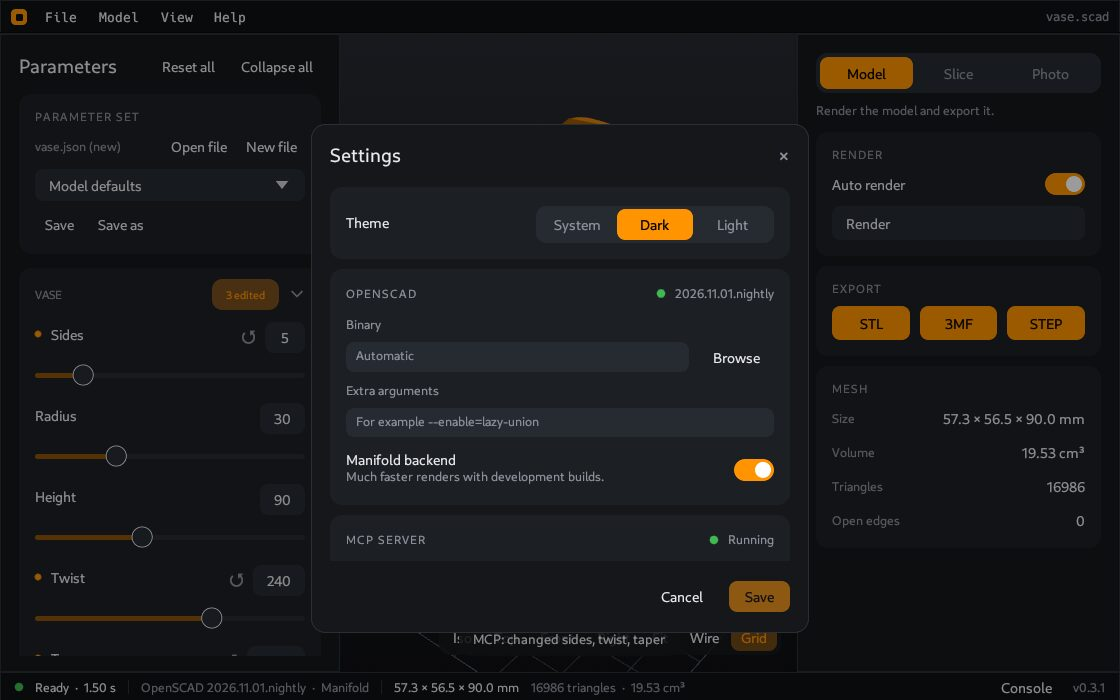
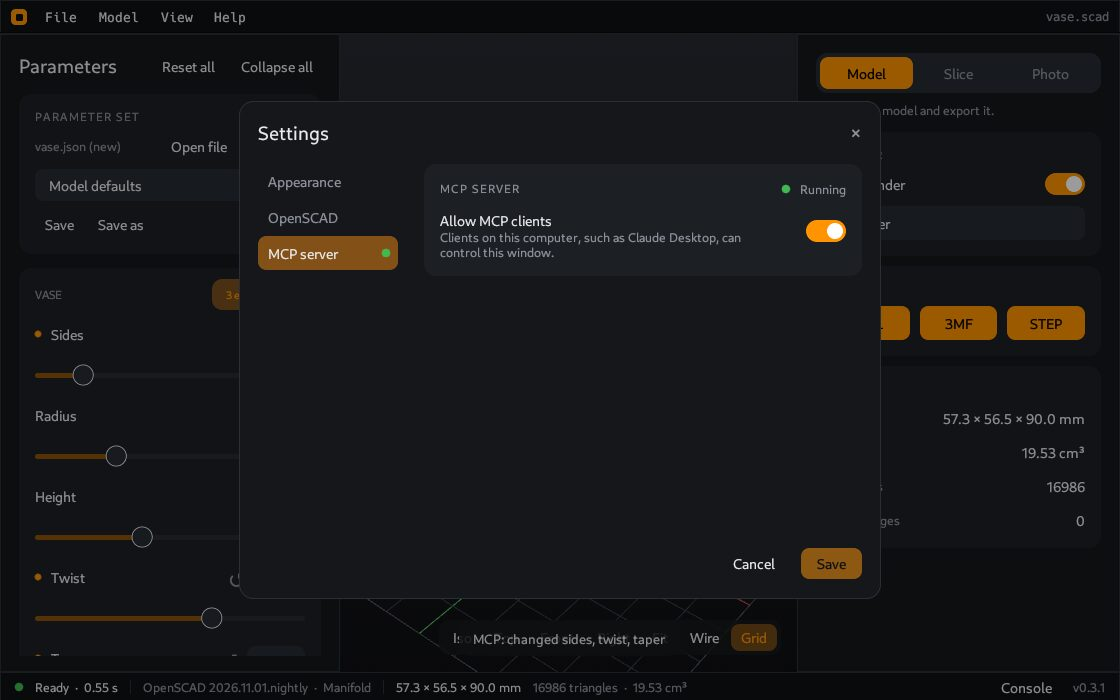
Settings: use side navigation with one page per topic
The Settings window was one long column. It now has a fixed size and
pages for Appearance, OpenSCAD, MCP server and Privacy. Dots in the
navigation show a missing binary and a running server. A note shows
unsaved changes.

diff --git a/src/app.rs b/src/app.rs
@@ -82,6 +82,15 @@ struct PhotoKey {
     samples: u32,
 }
 
+/// Pages of the Settings window.
+#[derive(Clone, Copy, PartialEq)]
+enum SettingsPage {
+    Appearance,
+    OpenScad,
+    Mcp,
+    Privacy,
+}
+
 /// Photo render settings shown in the Photo panel.
 struct PhotoSettings {
     color: [u8; 3],
@@ -218,6 +227,7 @@ pub struct App {
     collapsed: std::collections::HashSet<String>,
     cfg: openscad::Config,
     cfg_edit: Option<openscad::Config>,
+    settings_page: SettingsPage,
     engine: String,
     renderer: Option<Arc<Mutex<Renderer>>>,
     toast: Option<(String, Instant)>,
@@ -321,6 +331,7 @@ impl App {
                 .then_some((false, false)),
             cfg,
             cfg_edit: None,
+            settings_page: SettingsPage::Appearance,
             engine: String::new(),
             renderer,
             toast: None,
@@ -2259,11 +2270,33 @@ impl App {
             .corner_radius(14)
             .inner_margin(egui::Margin::same(18))
             .stroke(egui::Stroke::new(1.0_f32, ui::c().line));
-        let max_height = (ctx.screen_rect().height() - 170.0).max(160.0);
+        // A fixed size keeps the buttons in place when the page changes.
+        let screen = ctx.screen_rect().size();
+        let width = (screen.x - 80.0).clamp(420.0, 604.0);
+        let height = (screen.y - 170.0).clamp(160.0, 360.0);
+        let probe = settings_probe(ctx, &edit);
+        let missing = probe.as_ref().is_some_and(|p| p.version == "not found");
+        let mut page = self.settings_page;
+        let mut pages = vec![
+            (SettingsPage::Appearance, "Appearance", None),
+            (
+                SettingsPage::OpenScad,
+                "OpenSCAD",
+                missing.then_some(ui::c().danger),
+            ),
+            (
+                SettingsPage::Mcp,
+                "MCP server",
+                running.then_some(ui::GOOD),
+            ),
+        ];
+        if crate::telemetry::available() {
+            pages.push((SettingsPage::Privacy, "Privacy", None));
+        }
         egui::Modal::new(egui::Id::new("settings"))
             .frame(frame)
             .show(ctx, |ui| {
-                ui.set_width(460.0);
+                ui.set_width(width);
                 ui.horizontal(|ui| {
                     ui.heading("Settings");
                     ui.with_layout(egui::Layout::right_to_left(egui::Align::Center), |ui| {
@@ -2271,57 +2304,42 @@ impl App {
                     });
                 });
                 ui.add_space(10.0);
-                egui::ScrollArea::vertical()
-                    .max_height(max_height)
-                    .auto_shrink([false, true])
-                    .show(ui, |ui| {
-                        ui.spacing_mut().item_spacing.y = 10.0;
-                        ui::card(ui, |ui| {
-                            let row = Vec2::new(ui.available_width(), 36.0);
-                            let rtl = egui::Layout::right_to_left(egui::Align::Center);
-                            ui.allocate_ui_with_layout(row, rtl, |ui| {
-                                let mut theme: &str = match edit.theme.as_str() {
-                                    "dark" => "dark",
-                                    "light" => "light",
-                                    _ => "system",
-                                };
-                                // Right to left: the last item comes first on screen.
-                                let options =
-                                    [("light", "Light"), ("dark", "Dark"), ("system", "System")];
-                                ui::segmented(ui, &mut theme, &options);
-                                edit.theme = theme.to_string();
-                                let ltr = egui::Layout::left_to_right(egui::Align::Center);
-                                ui.with_layout(ltr, |ui| ui.label("Theme"));
-                            });
-                        });
-                        ui::card(ui, |ui| openscad_settings(ui, &mut edit));
-                        ui::card(ui, |ui| {
-                            let (ok, text) = match (edit.mcp, running) {
-                                (true, true) => (true, "Running"),
-                                (false, false) => (false, "Off"),
-                                (true, false) => (false, "Starts when you save"),
-                                (false, true) => (true, "Stops when you save"),
-                            };
-                            let color = if ok { ui::GOOD } else { ui::c().dim };
-                            card_header(ui, "MCP server", color, text);
-                            ui.add_space(4.0);
-                            toggle_row(
-                                ui,
-                                "Allow MCP clients",
-                                "Clients on this computer, such as Claude Desktop, can control this window.",
-                                &mut edit.mcp,
-                            );
-                        });
-                        if crate::telemetry::available() {
-                            ui::card(ui, |ui| {
-                                ui::section(ui, "Privacy");
-                                ui.add_space(4.0);
-                                toggle_row(ui, "Usage analytics", ANALYTICS_NOTE, &mut edit.analytics);
-                                toggle_row(ui, "Error reports", ERRORS_NOTE, &mut edit.error_reports);
-                                ui.hyperlink_to("Privacy policy", crate::telemetry::PRIVACY_URL);
-                            });
+                let ltr = egui::Layout::left_to_right(egui::Align::Min);
+                ui.allocate_ui_with_layout(Vec2::new(width, height), ltr, |ui| {
+                    ui.set_min_height(height);
+                    let nav = Vec2::new(140.0, height);
+                    let down = egui::Layout::top_down(egui::Align::Min);
+                    ui.allocate_ui_with_layout(nav, down, |ui| {
+                        ui.set_width(nav.x);
+                        ui.spacing_mut().item_spacing.y = 2.0;
+                        for &(value, label, dot) in &pages {
+                            if ui::nav_item(ui, label, page == value, dot).clicked() {
+                                page = value;
+                            }
                         }
                     });
+                    ui.add_space(16.0);
+                    let body = Vec2::new(ui.available_width(), height);
+                    ui.allocate_ui_with_layout(body, down, |ui| {
+                        egui::ScrollArea::vertical()
+                            .id_salt("settings-page")
+                            .auto_shrink([false, false])
+                            .show(ui, |ui| match page {
+                                SettingsPage::Appearance => {
+                                    ui::card(ui, |ui| theme_row(ui, &mut edit));
+                                }
+                                SettingsPage::OpenScad => {
+                                    ui::card(ui, |ui| openscad_settings(ui, &mut edit, &probe));
+                                }
+                                SettingsPage::Mcp => {
+                                    ui::card(ui, |ui| mcp_settings(ui, &mut edit, running));
+                                }
+                                SettingsPage::Privacy => {
+                                    ui::card(ui, |ui| privacy_settings(ui, &mut edit));
+                                }
+                            });
+                    });
+                });
                 ui.add_space(12.0);
                 let row = Vec2::new(ui.available_width(), 34.0);
                 let rtl = egui::Layout::right_to_left(egui::Align::Center);
@@ -2332,8 +2350,13 @@ impl App {
                         .on_disabled_hover_text("No changes")
                         .clicked();
                     close |= ui.add(ui::ghost("Cancel", false)).clicked();
+                    if dirty {
+                        let ltr = egui::Layout::left_to_right(egui::Align::Center);
+                        ui.with_layout(ltr, |ui| ui.label(ui::dim("Unsaved changes").size(12.5)));
+                    }
                 });
             });
+        self.settings_page = page;
         if save {
             if let Err(e) = edit.save() {
                 self.toast = Some((format!("Cannot save settings: {e}"), Instant::now()));
@@ -2352,13 +2375,72 @@ impl App {
     }
 }
 
-/// The OpenSCAD card of the Settings window.
-fn openscad_settings(ui: &mut egui::Ui, edit: &mut openscad::Config) {
+/// Id of the OpenSCAD binary field.
+fn binary_id() -> egui::Id {
+    egui::Id::new("settings-binary")
+}
+
+/// Checks the OpenSCAD binary, except while its name is being typed.
+fn settings_probe(ctx: &egui::Context, edit: &openscad::Config) -> Option<openscad::Probe> {
     // A half typed name must not run as a program.
-    let binary_id = egui::Id::new("settings-binary");
-    let typing = ui.memory(|m| m.has_focus(binary_id));
-    let probe = (!typing).then(|| openscad::probe(&edit.binary()));
-    match &probe {
+    let typing = ctx.memory(|m| m.has_focus(binary_id()));
+    (!typing).then(|| openscad::probe(&edit.binary()))
+}
+
+/// The Appearance page of the Settings window.
+fn theme_row(ui: &mut egui::Ui, edit: &mut openscad::Config) {
+    let row = Vec2::new(ui.available_width(), 36.0);
+    let rtl = egui::Layout::right_to_left(egui::Align::Center);
+    ui.allocate_ui_with_layout(row, rtl, |ui| {
+        let mut theme: &str = match edit.theme.as_str() {
+            "dark" => "dark",
+            "light" => "light",
+            _ => "system",
+        };
+        // Right to left: the last item comes first on screen.
+        let options = [("light", "Light"), ("dark", "Dark"), ("system", "System")];
+        ui::segmented(ui, &mut theme, &options);
+        edit.theme = theme.to_string();
+        let ltr = egui::Layout::left_to_right(egui::Align::Center);
+        ui.with_layout(ltr, |ui| ui.label("Theme"));
+    });
+}
+
+/// The MCP server page of the Settings window.
+fn mcp_settings(ui: &mut egui::Ui, edit: &mut openscad::Config, running: bool) {
+    let (ok, text) = match (edit.mcp, running) {
+        (true, true) => (true, "Running"),
+        (false, false) => (false, "Off"),
+        (true, false) => (false, "Starts when you save"),
+        (false, true) => (true, "Stops when you save"),
+    };
+    let color = if ok { ui::GOOD } else { ui::c().dim };
+    card_header(ui, "MCP server", color, text);
+    ui.add_space(4.0);
+    toggle_row(
+        ui,
+        "Allow MCP clients",
+        "Clients on this computer, such as Claude Desktop, can control this window.",
+        &mut edit.mcp,
+    );
+}
+
+/// The Privacy page of the Settings window.
+fn privacy_settings(ui: &mut egui::Ui, edit: &mut openscad::Config) {
+    toggle_row(ui, "Usage analytics", ANALYTICS_NOTE, &mut edit.analytics);
+    ui.add_space(8.0);
+    toggle_row(ui, "Error reports", ERRORS_NOTE, &mut edit.error_reports);
+    ui.add_space(8.0);
+    ui.hyperlink_to("Privacy policy", crate::telemetry::PRIVACY_URL);
+}
+
+/// The OpenSCAD page of the Settings window.
+fn openscad_settings(
+    ui: &mut egui::Ui,
+    edit: &mut openscad::Config,
+    probe: &Option<openscad::Probe>,
+) {
+    match probe {
         None => card_header(
             ui,
             "OpenSCAD",
@@ -2386,7 +2468,7 @@ fn openscad_settings(ui: &mut egui::Ui, edit: &mut openscad::Config) {
         }
         ui.add(
             egui::TextEdit::singleline(&mut edit.binary)
-                .id(binary_id)
+                .id(binary_id())
                 .hint_text(ui::dim("Automatic"))
                 .desired_width(f32::INFINITY)
                 .margin(Vec2::new(10.0, 6.0)),

diff --git a/src/ui.rs b/src/ui.rs
@@ -469,6 +469,41 @@ fn accent_tint() -> Color32 {
     Color32::from_rgba_unmultiplied(0xff, 0x93, 0x00, 42)
 }
 
+/// Row of a side navigation list, with an optional state dot at the right.
+pub fn nav_item(
+    ui: &mut egui::Ui,
+    label: &str,
+    active: bool,
+    dot: Option<Color32>,
+) -> egui::Response {
+    let (rect, resp) = ui.allocate_exact_size(vec2(ui.available_width(), 34.0), Sense::click());
+    let fill = if active {
+        accent_tint()
+    } else if resp.hovered() {
+        c().card
+    } else {
+        Color32::TRANSPARENT
+    };
+    let fg = if active || resp.hovered() {
+        c().text
+    } else {
+        c().dim
+    };
+    let p = ui.painter();
+    p.rect_filled(rect, 8.0, fill);
+    p.text(
+        rect.left_center() + vec2(10.0, 0.0),
+        Align2::LEFT_CENTER,
+        label,
+        FontId::proportional(14.5),
+        fg,
+    );
+    if let Some(color) = dot {
+        p.circle_filled(rect.right_center() - vec2(12.0, 0.0), 4.0, color);
+    }
+    resp.on_hover_cursor(egui::CursorIcon::PointingHand)
+}
+
 /// Menu bar button. `open` marks the menu that is showing.
 pub fn menu_trigger(ui: &mut egui::Ui, text: &str, open: bool) -> egui::Response {
     let galley = one_line(ui, text, FontId::monospace(12.5), f32::INFINITY);
